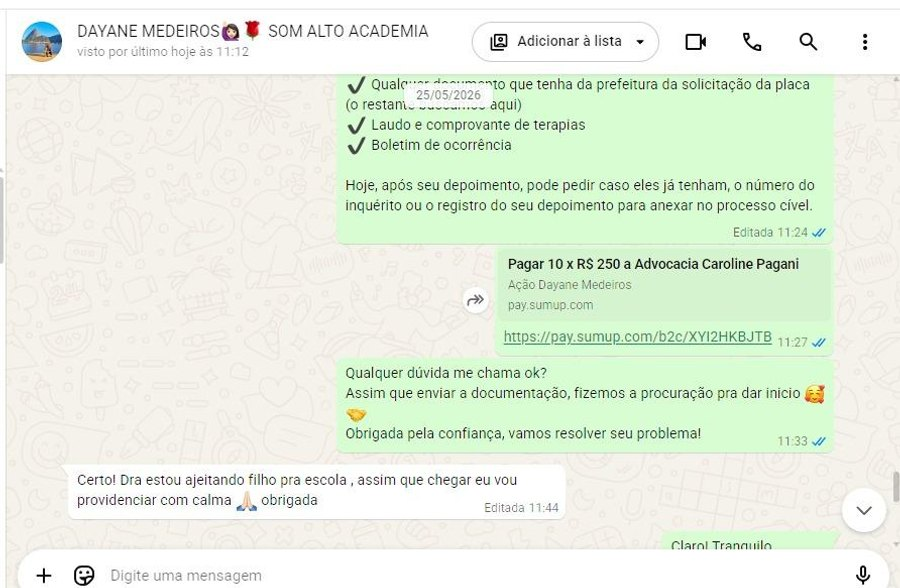
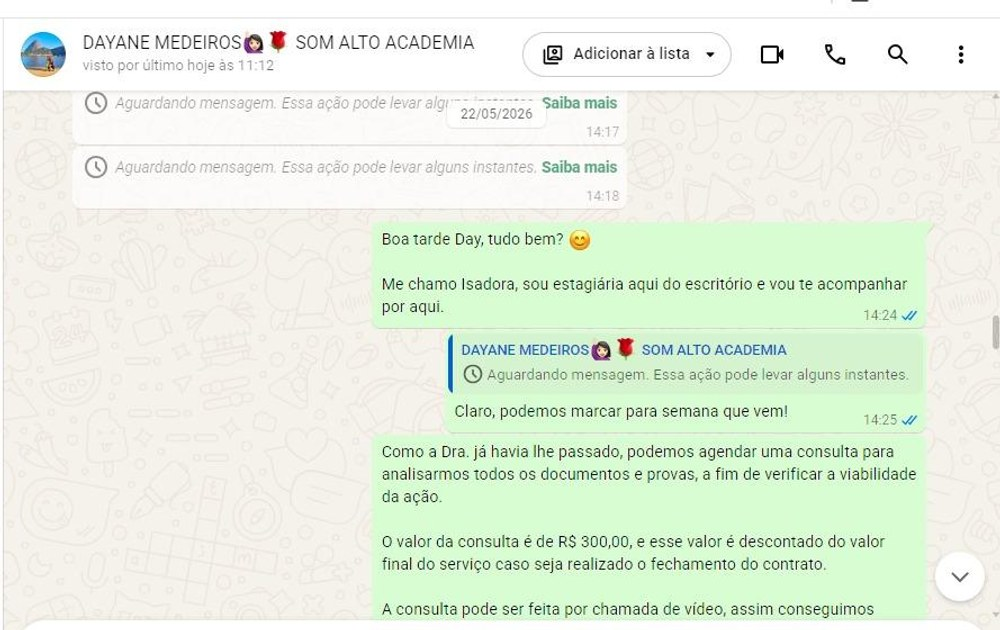
fix(palestra-caf): prints inteiros, os sete do documento, e titulo maior
PRINTS
- Os sete prints do documento agora estao na apresentacao: faltavam a
  negociacao do novo contrato (cliente A) e o agendamento da consulta
  (cliente D)
- Trocado objectFit cover por contain: nenhum print e mais cortado,
  independentemente da proporcao. Cada um vai de 1,31 a 2,35 de razao.
- Prints passam a ficar lado a lado, ocupando a altura toda, e a linha do
  tempo vira uma faixa horizontal no topo — assim as conversas ganham o
  espaco e ficam legiveis

TITULO DA ESCADA
Sobe para 3,6rem com "na segunda-feira?" em verde.

diff --git a/src/pages/erp/PalestraCAF.jsx b/src/pages/erp/PalestraCAF.jsx
@@ -857,7 +857,10 @@ function S03({ mode }) {
       <div className="h-full flex flex-col px-10 pt-6 pb-12 gap-3 relative overflow-hidden" style={{ background: DARK }}>
         <Handle />
         <motion.div initial={{ opacity: 0, y: -14 }} animate={{ opacity: 1, y: 0 }} className="flex-shrink-0">
-          <h2 className="text-4xl font-black text-white leading-none">Qual degrau você vai subir na segunda-feira?</h2>
+          <h2 className="font-black text-white leading-none"
+            style={{ fontSize: '3.6rem', letterSpacing: '-2px' }}>
+            Qual degrau você vai subir <span style={{ color: G }}>na segunda-feira?</span>
+          </h2>
         </motion.div>
 
         {/* Chamada — usa o vazio que a escada deixa embaixo à direita */}
@@ -1902,42 +1905,41 @@ function fazJornada(indice, prints, fecho) {
             <span className="font-black text-2xl" style={{ color: j.cor }}>Cliente {j.nome}</span>
           </motion.div>
 
-          <div className="flex-1 grid gap-6 min-h-0" style={{ gridTemplateColumns: '360px 1fr' }}>
-            <motion.div initial={{ opacity: 0, x: -18 }} animate={{ opacity: 1, x: 0 }} transition={{ delay: 0.15 }}
-              className="rounded-2xl p-6 flex flex-col gap-4 justify-center"
-              style={{ background: j.cor + '0d', border: `1px solid ${j.cor}38` }}>
-              {j.etapas.map(e => (
-                <div key={e.q} className="flex flex-col">
-                  <span className="text-white/45 text-[15px] font-black uppercase tracking-widest">{e.q}</span>
-                  <span className="text-white/90 text-lg leading-snug">{e.o}</span>
-                  {e.v !== '—' && (
-                    <span className="font-black text-lg mt-0.5" style={{ color: j.cor }}>{e.v}</span>
-                  )}
-                </div>
-              ))}
-              <div className="rounded-xl px-4 py-3 text-center mt-2"
-                style={{ background: j.cor + '1a', border: `1px solid ${j.cor}45` }}>
-                <span className="font-black text-white text-lg leading-snug">{j.total}</span>
+          {/* linha do tempo, em faixa */}
+          <motion.div initial={{ opacity: 0, y: 12 }} animate={{ opacity: 1, y: 0 }} transition={{ delay: 0.15 }}
+            className="flex items-stretch gap-2.5 flex-shrink-0">
+            {j.etapas.map(e => (
+              <div key={e.q} className="flex-1 rounded-xl px-4 py-2.5"
+                style={{ background: j.cor + '0d', border: `1px solid ${j.cor}30` }}>
+                <div className="text-white/45 text-[14px] font-black uppercase tracking-widest">{e.q}</div>
+                <div className="text-white/90 text-[17px] leading-snug">{e.o}</div>
+                {e.v !== '—' && <div className="font-black text-[17px]" style={{ color: j.cor }}>{e.v}</div>}
               </div>
-            </motion.div>
-
-            <div className="flex flex-col gap-3 min-h-0 justify-center">
-              {prints.map((p, i) => (
-                <motion.div key={p.src}
-                  initial={{ opacity: 0, y: 16 }} animate={{ opacity: 1, y: 0 }}
-                  transition={{ delay: 0.3 + i * 0.15 }}
-                  className="rounded-xl overflow-hidden flex-1 min-h-0 flex flex-col"
-                  style={{ border: `1px solid ${j.cor}35` }}>
-                  <div className="px-4 py-1.5 text-[15px] font-black uppercase tracking-widest flex-shrink-0"
-                    style={{ background: j.cor + '1a', color: j.cor }}>{p.legenda}</div>
-                  <img src={p.src} alt={p.legenda} className="w-full flex-1 min-h-0"
-                    style={{ objectFit: 'cover', objectPosition: 'top' }} />
-                </motion.div>
-              ))}
+            ))}
+            <div className="rounded-xl px-5 py-2.5 flex items-center" style={{ background: j.cor + '1e', border: `1px solid ${j.cor}55`, maxWidth: 300 }}>
+              <span className="font-black text-white text-[17px] leading-snug">{j.total}</span>
             </div>
+          </motion.div>
+
+          {/* os prints, inteiros */}
+          <div className="flex-1 flex gap-3 min-h-0">
+            {prints.map((p, i) => (
+              <motion.div key={p.src}
+                initial={{ opacity: 0, y: 16 }} animate={{ opacity: 1, y: 0 }}
+                transition={{ delay: 0.3 + i * 0.12 }}
+                className="flex-1 min-w-0 rounded-xl overflow-hidden flex flex-col"
+                style={{ border: `1px solid ${j.cor}35`, background: '#0b0d14' }}>
+                <div className="px-3 py-1.5 text-[14px] font-black uppercase tracking-widest flex-shrink-0 text-center"
+                  style={{ background: j.cor + '1a', color: j.cor }}>{p.legenda}</div>
+                <div className="flex-1 min-h-0 flex items-center justify-center p-1">
+                  <img src={p.src} alt={p.legenda}
+                    style={{ maxWidth: '100%', maxHeight: '100%', objectFit: 'contain' }} />
+                </div>
+              </motion.div>
+            ))}
           </div>
 
-          <div className="rounded-xl px-6 py-4 text-center flex-shrink-0" style={{ background: '#1e2035' }}>
+          <div className="rounded-xl px-6 py-3 text-center flex-shrink-0" style={{ background: '#1e2035' }}>
             <span className="text-white font-black text-xl">{fecho}</span>
           </div>
         </div>
@@ -1947,8 +1949,9 @@ function fazJornada(indice, prints, fecho) {
 }
 
 const S10Ba = fazJornada(0, [
-  { src: '/palestra-caf/jornada-a-1.jpg', legenda: 'Fevereiro · o primeiro pagamento' },
-  { src: '/palestra-caf/jornada-a-2.jpg', legenda: 'Julho · ela volta, agora por divórcio' },
+  { src: '/palestra-caf/jornada-a-1.jpg', legenda: 'O primeiro pagamento' },
+  { src: '/palestra-caf/jornada-a-2.jpg', legenda: 'Negociando o novo contrato' },
+  { src: '/palestra-caf/jornada-a-3.jpg', legenda: 'Julho · ela volta, agora por divórcio' },
 ], 'Cinco meses depois, a mesma cliente. Nada disso apareceu no primeiro contrato.')
 
 const S10Bk = fazJornada(1, [
@@ -1957,7 +1960,8 @@ const S10Bk = fazJornada(1, [
 
 const S10Bd = fazJornada(2, [
   { src: '/palestra-caf/jornada-d-1.jpg', legenda: 'Abril · o primeiro contato' },
-  { src: '/palestra-caf/jornada-d-2.jpg', legenda: 'Maio · fechou e parcelou' },
+  { src: '/palestra-caf/jornada-d-2.jpg', legenda: 'Maio · agendando a consulta' },
+  { src: '/palestra-caf/jornada-d-3.jpg', legenda: 'Fechou e parcelou' },
 ], 'Quem olha só o primeiro contrato acha caro. Quem olha a cliente inteira, não.')
 
 // 18 · OBRIGADO ────────────────────────────────────────────────────────────────
